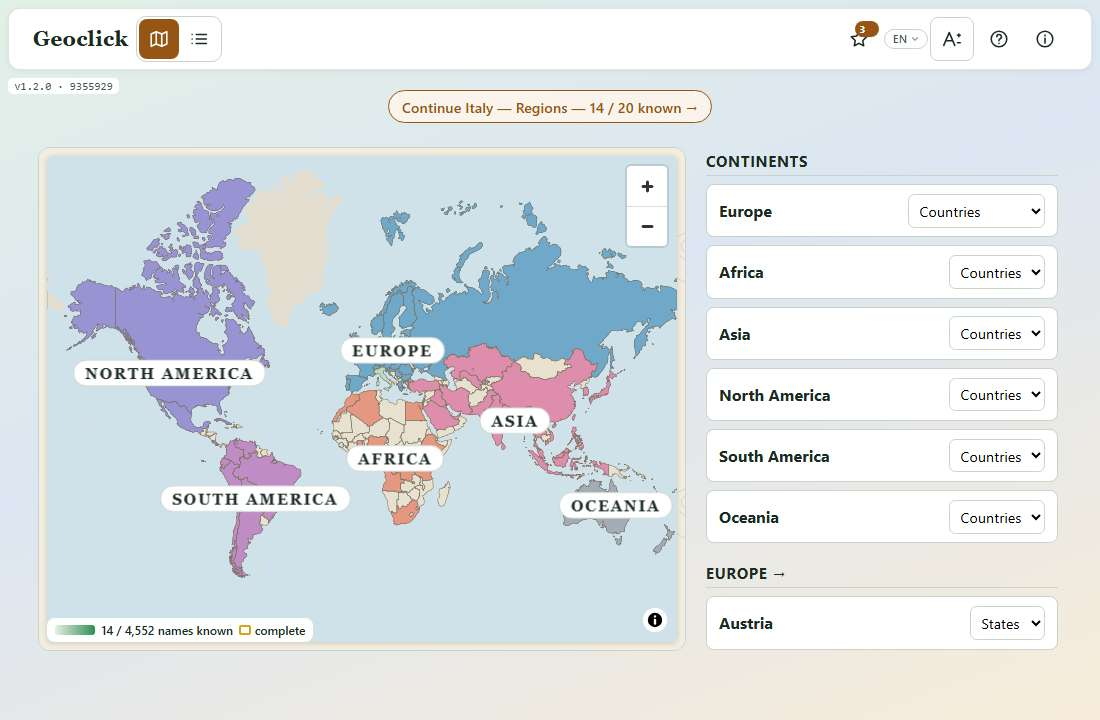
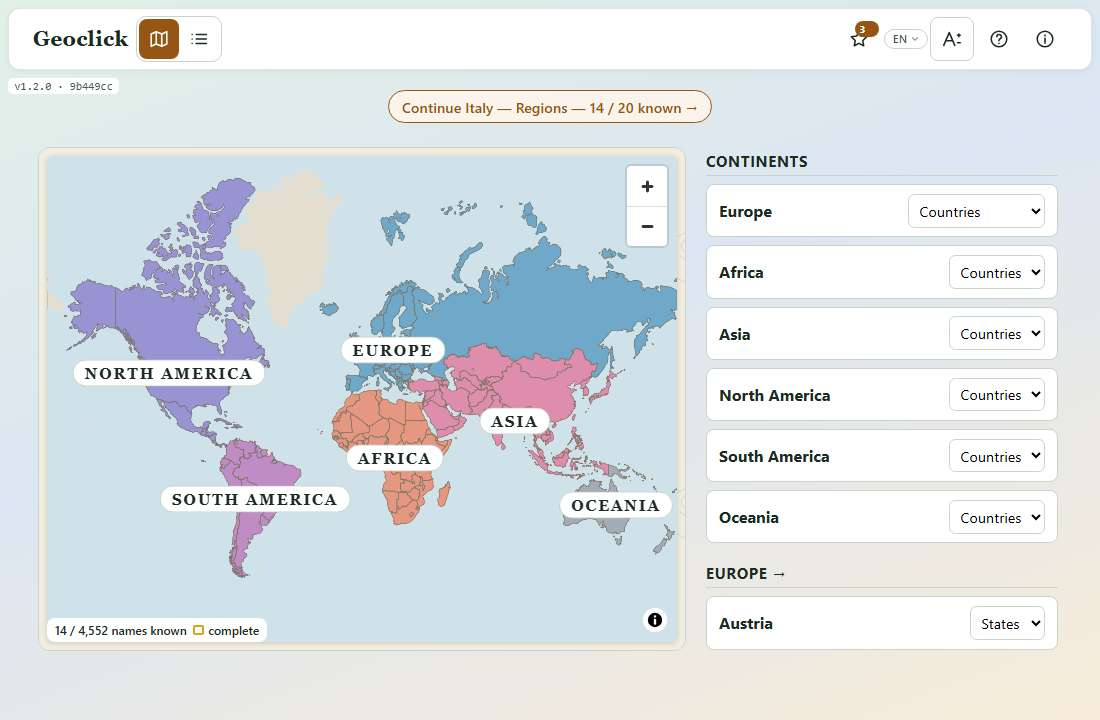
fix: enable desktop page zoom and preserve country colors
Keep learning progress in counts and completion outlines, independent
of continent fills. Enable native Windows zoom shortcuts and update
the localized manuals and world-map screenshots.

diff --git a/app/src/lib/WorldPicker.svelte.test.ts b/app/src/lib/WorldPicker.svelte.test.ts
@@ -7,7 +7,7 @@
 // and the test fires it by hand, which is the one ordering the bug was in.
 import { afterEach, beforeEach, describe, expect, it, vi } from 'vitest';
 import { render } from 'vitest-browser-svelte';
-import { setLanguage } from './i18n.svelte';
+import { setLanguage, t } from './i18n.svelte';
 import WorldPicker from './WorldPicker.svelte';
 import { pickerGoUp, setPickerShown, setPickerView } from './mapPrefs.svelte';
 
@@ -17,7 +17,14 @@ const fake = vi.hoisted(() => {
 		mapClick: undefined as ((event: unknown) => void) | undefined,
 		countryFeatures: [] as { properties: Record<string, string> }[],
 		mapOptions: undefined as
-			{ doubleClickZoom?: boolean; locale?: Record<string, string> } | undefined,
+			| {
+					doubleClickZoom?: boolean;
+					locale?: Record<string, string>;
+					style?: { layers: { id: string; paint?: Record<string, unknown> }[] };
+			  }
+			| undefined,
+		featureStates: {} as Record<string, Record<string, unknown>>,
+		paintProperties: {} as Record<string, unknown>,
 		countryLabels: {} as Record<string, HTMLElement>,
 		countryLabelPosition: undefined as [number, number] | undefined
 	};
@@ -31,6 +38,13 @@ const fake = vi.hoisted(() => {
 			}
 		],
 		countries: [
+			{
+				id: 'united-states',
+				name: 'United States',
+				continent: 'north-america',
+				centroid: [-100, 39] as [number, number],
+				bbox: [-125, 25, -66, 49] as [number, number, number, number]
+			},
 			{
 				id: 'italy',
 				name: 'Italy',
@@ -81,9 +95,13 @@ const fake = vi.hoisted(() => {
 				if (element) container.append(element);
 				return map;
 			},
-			setFeatureState: () => {},
+			setFeatureState: (target: { id: string }, change: Record<string, unknown>) => {
+				state.featureStates[target.id] = { ...state.featureStates[target.id], ...change };
+			},
 			queryRenderedFeatures: () => state.countryFeatures,
-			setPaintProperty: () => {},
+			setPaintProperty: (layer: string, property: string, value: unknown) => {
+				state.paintProperties[`${layer}:${property}`] = value;
+			},
 			fitBounds: () => map,
 			getCanvas: () => ({ style: {} }),
 			resize: () => map,
@@ -140,6 +158,7 @@ vi.mock('maplibre-gl', () => ({
 			container: HTMLElement;
 			doubleClickZoom?: boolean;
 			locale?: Record<string, string>;
+			style?: { layers: { id: string; paint?: Record<string, unknown> }[] };
 		}) {
 			fake.state.mapOptions = options;
 			Object.assign(this, fake.createMap(options.container));
@@ -166,18 +185,75 @@ vi.mock('./labelCollision', () => ({
 vi.mock('./worldPicker', () => ({
 	WORLD_VIEW: [-180, -60, 180, 75] as [number, number, number, number],
 	fetchPicker: async () => ({ picker: fake.picker, tilesUrl: 'test' }),
-	hasMaps: (id: string) => id === 'italy' || id === 'russia' || id === 'france',
+	hasMaps: (id: string) =>
+		id === 'italy' || id === 'russia' || id === 'france' || id === 'united-states',
 	validView: (p: typeof fake.picker, v: string) =>
 		v === 'world' || p.continents.some((c) => c.id === v) ? v : 'world'
 }));
 
 describe('WorldPicker (FT-83, FT-86, #87)', () => {
+	it('keeps USA/continent fills constant while progress counts and completion change (#296)', async () => {
+		const groups = [
+			{
+				country: 'USA',
+				pickerId: 'united-states',
+				maps: [
+					{ id: 'usa-states', label: 'States' },
+					{ id: 'usa-cities', label: 'Cities' }
+				]
+			}
+		];
+		const targetCount = (id: string) => (id === 'usa-states' ? 48 : 50);
+		const screen = await render(WorldPicker, { groups, masteries: {}, targetCount });
+		await expect.poll(() => fake.state.load !== undefined).toBe(true);
+		fake.state.load!();
+		const initial = fake.state.mapOptions!.style!.layers.find(
+			(layer) => layer.id === 'countries-fill'
+		)!.paint!['fill-color'];
+		// This is the user contract: feature-state must never drive a fill.
+		// It also includes unavailable countries: continent alone chooses color.
+		expect(JSON.stringify(initial)).not.toContain('feature-state');
+		expect(initial).toEqual(
+			expect.arrayContaining(['north-america', '#8b86d4', 'europe', '#5b9fc8'])
+		);
+		const cases = [
+			{ known: 0, complete: false },
+			{ known: 24, complete: false },
+			{ known: 48, complete: true },
+			{ known: 0, complete: false }
+		];
+		for (const step of cases) {
+			const masteries = {
+				'usa-states': { known: step.known, total: 48, level: 0 as const },
+				...(step.complete ? { 'usa-cities': { known: 50, total: 50, level: 3 as const } } : {})
+			};
+			await screen.rerender({ groups, masteries, targetCount });
+			await expect
+				.poll(() => fake.state.featureStates['united-states']?.complete)
+				.toBe(step.complete);
+			const current = fake.state.paintProperties['countries-fill:fill-color'] ?? initial;
+			expect(current).toEqual(initial);
+			const expected = t('picker.namesKnown', {
+				known: String(step.complete ? 98 : step.known),
+				total: '98'
+			});
+			await expect
+				.poll(() => screen.container.querySelector('[data-testid="world-progress"]')?.textContent)
+				.toContain(expected);
+		}
+		const complete = fake.state.mapOptions!.style!.layers.find(
+			(layer) => layer.id === 'countries-complete'
+		)!;
+		expect(JSON.stringify(complete.paint)).toContain('complete');
+	});
 	beforeEach(() => {
 		setLanguage('en');
 		fake.state.load = undefined;
 		fake.state.mapClick = undefined;
 		fake.state.countryFeatures = [];
 		fake.state.mapOptions = undefined;
+		fake.state.featureStates = {};
+		fake.state.paintProperties = {};
 		fake.state.countryLabels = {};
 		fake.state.countryLabelPosition = undefined;
 		localStorage.removeItem('geoclick:map-type-selections:v1');

diff --git a/app/src/lib/WorldPicker.svelte b/app/src/lib/WorldPicker.svelte
@@ -75,7 +75,7 @@
 
 	const view = $derived(picker ? validView(picker, pickerView()) : 'world');
 
-	// One colour per continent for the countries with maps; the rest pale.
+	// Country fills always keep their continent color; progress is separate (#296).
 	const CONTINENT_COLOURS: Record<string, string> = {
 		europe: '#5b9fc8',
 		africa: '#e58a73',
@@ -84,22 +84,18 @@
 		'south-america': '#b87dc4',
 		oceania: '#97a3b2'
 	};
-	const NO_MAPS = '#e9e2d0';
+	const UNKNOWN_CONTINENT = '#e9e2d0';
 	const CONTINENT_COLOUR = [
 		'match',
 		['get', 'continent'],
 		...Object.entries(CONTINENT_COLOURS).flat(),
-		NO_MAPS
+		UNKNOWN_CONTINENT
 	] as unknown as maplibregl.ExpressionSpecification;
 
 	const continentName = (id: string) => t(`continent.${id}` as TranslationKey);
 
-	// The world map shows what is known (#262): a country with a map played is
-	// shaded from pale to full green by the share of its names known, and a
-	// completed one gets a gold outline. Countries never played keep their
-	// continent's colour, so the map looks as it always has until a first round.
-	const PROGRESS_PALE = '#e6efe0';
-	const PROGRESS_FULL = '#2f8f55';
+	// Counts and gold outlines show learning progress; no learning state is
+	// allowed to replace a country's continent fill (owner, #296).
 	const progress = $derived(
 		worldProgress(
 			groups.map((g) => ({ id: pickerIdOf(g), mapIds: g.maps.map((m) => m.id) })),
@@ -116,8 +112,6 @@
 			map.setFeatureState(
 				{ source: 'picker', sourceLayer: 'countries', id: country.id },
 				{
-					played: !!p,
-					share: p ? p.known / p.total : 0,
 					complete: !!p && p.known === p.total
 				}
 			);
@@ -377,22 +371,7 @@
 								source: 'picker',
 								'source-layer': 'countries',
 								paint: {
-									'fill-color': [
-										'case',
-										['boolean', ['feature-state', 'played'], false],
-										[
-											'interpolate',
-											['linear'],
-											['number', ['feature-state', 'share'], 0],
-											0,
-											PROGRESS_PALE,
-											1,
-											PROGRESS_FULL
-										],
-										['boolean', ['feature-state', 'hasMaps'], false],
-										CONTINENT_COLOUR,
-										NO_MAPS
-									],
+									'fill-color': CONTINENT_COLOUR,
 									'fill-opacity': 0.85
 								}
 							},
@@ -425,13 +404,6 @@
 				stopCollision = enableLabelCollision(map, container);
 				map.on('load', () => {
 					if (!map || !picker) return;
-					for (const country of picker.countries) {
-						if (!hasMaps(country.id)) continue;
-						map.setFeatureState(
-							{ source: 'picker', sourceLayer: 'countries', id: country.id },
-							{ hasMaps: true }
-						);
-					}
 					paint(start);
 					drawLabels(start);
 					keepContinentsInside();
@@ -603,9 +575,8 @@
 			<div class="map" bind:this={container}></div>
 		</ChartMapShell>
 		{#if progress.byGroup.size > 0}
-			<!-- What the green means, and how much of the world is known (#262). -->
+			<!-- Progress stays in counts and completion outlines, separate from fills. -->
 			<div class="progress-legend" data-testid="world-progress">
-				<span class="ramp" aria-hidden="true"></span>
 				{t('picker.namesKnown', {
 					known: progress.known.toLocaleString(getLanguage()),
 					total: progress.total.toLocaleString(getLanguage())
@@ -671,12 +642,6 @@
 		font-family: system-ui, sans-serif;
 		font-size: 0.75rem;
 		font-weight: 600;
-	}
-	.ramp {
-		width: 2.5rem;
-		height: 0.6rem;
-		border-radius: 3px;
-		background: linear-gradient(to right, #e6efe0, #2f8f55);
 	}
 	.complete-key {
 		display: inline-flex;

diff --git a/app/src/lib/homeProgress.ts b/app/src/lib/homeProgress.ts
@@ -88,10 +88,9 @@ export function groupProgress(
 }
 
 /**
- * How much of each country is known, for colouring the start screen's world
- * map (#262), and the names known over the whole catalogue. Only a group with
- * a map played is listed: the rest keep their plain colour. Detailed maps do
- * not count, so a country can be completed from its main maps.
+ * Country completion and world totals (#262, #296). Country fill colors
+ * remain independent of learning progress. Only played groups are listed;
+ * detailed maps do not count toward completing a country's main maps.
  */
 export function worldProgress(
 	groups: readonly { id: string; mapIds: readonly string[] }[],

diff --git a/docs/USER_MANUAL.de.md b/docs/USER_MANUAL.de.md
@@ -33,6 +33,12 @@ Die gemeinsam mit dem englischen Handbuch verwendeten Bilder zeigen englische Be
 
 ## Darstellung und Textgröße
 
+In der Windows-App vergrößern und verkleinern **Strg +** / **Strg −** und
+**Strg + Mausrad** die ganze Oberfläche einschließlich Schaltflächen und
+Symbolen, wie im Browser. Die Textgröße unter Darstellung und der geografische
+Kartenzoom sind davon unabhängig.
+
+
 Öffne **Darstellung** (das A− / A+-Symbol) in der Start- oder Kartenleiste,
 auch während eines Quiz. Öffne auf der Karte zuerst **Einstellungen**.
 Dieses Feld ist anfangs geschlossen und lässt sich wieder zuklappen. Mit **A−** und **A+** wählst du 50% bis 300%;
@@ -74,7 +80,7 @@ Du kannst zwischen Weltkarte und Liste wählen. Auf der Weltkarte öffnest du zu
 
 Drücke auf den gewünschten Kartentyp, um ihn zu öffnen. Die Prozentzahl oder Anzahl bei einer Karte zeigt, wie viele ihrer Orte du kennst. Sie ist keine Bewertung der letzten Runde. Die Darstellung und deine Einstellungen werden gespeichert. Das Angebot für das Tutorial erscheint einmal; der Tutorial-Knopf bleibt auch danach erreichbar.
 
-Auf der Weltkarte ist ein Land, das du gespielt hast, von blassem bis kräftigem Grün gefärbt, je nachdem, wie viel du davon weißt. Es zählen seine Regionen- und Städtekarten, keine Detailkarten. Ein Land, das du ganz kennst, bekommt einen **goldenen Rand**; nie gespielte Länder behalten die Farbe ihres Kontinents. Eine kleine Legende zeigt die Farbstufen und deine Summe über alle Karten, etwa „1 240 / 9 800 Namen gewusst“.
+Auf der Weltkarte behält jedes Land die Farbe seines Kontinents, unabhängig vom Lernstand. Üben lässt die Farbe nicht verblassen. Ein vollständig gewusstes Land bekommt einen **goldenen Rand**; Regionen- und Städtekarten zählen, Detailkarten nicht. Zähler bei den Karten und die Gesamtzahl der gewussten Namen zeigen den Fortschritt getrennt von den Flächenfarben.
 
 Eine Zeile über Karte oder Liste schlägt vor, was du als Nächstes spielen kannst, zum Beispiel „Weiter mit Italy — Regionen — 14 / 20 gewusst“, „Italy — Regionen nochmal spielen — letztes Mal 3 eine Stufe verloren“ oder „Als Nächstes: Italy — Städte — Italy — Regionen kannst du ganz“. Ein Druck darauf öffnet das Quiz dieser Karte. Gibt es nichts vorzuschlagen, oder läuft das Tutorial, fehlt die Zeile.
 

diff --git a/docs/USER_MANUAL.it.md b/docs/USER_MANUAL.it.md
@@ -33,6 +33,12 @@ Le immagini condivise con il manuale inglese mostrano l’interfaccia in inglese
 
 ## Aspetto e dimensione del testo
 
+Nell'app Windows, **Ctrl +** / **Ctrl −** e **Ctrl + rotellina del mouse**
+ingrandiscono o riducono l'intera interfaccia, inclusi pulsanti e icone, come
+nel browser. La dimensione del testo in Aspetto e lo zoom geografico della
+mappa restano indipendenti.
+
+
 Apri **Aspetto** (l'icona A− / A+) nella barra iniziale o della mappa,
 anche durante un quiz. Sulla mappa apri prima **Impostazioni**.
 Il pannello è inizialmente chiuso e può essere richiuso. Usa **A−** e **A+** per scegliere dal 50% al 300%;
@@ -74,7 +80,7 @@ Puoi scegliere una vista geografica oppure un elenco. Nella vista geografica sce
 
 Premi il tipo di mappa che vuoi aprire. La percentuale o il conteggio accanto a una mappa indica quanti luoghi conosci; non rappresenta un voto dell’ultima partita. La scelta fra mappa ed elenco e le preferenze vengono ricordate. L’offerta del tutorial appare una volta, ma il comando Tutorial rimane disponibile.
 
-Sulla mappa del mondo, un paese su cui hai giocato è colorato da un verde pallido a un verde pieno, secondo quanto lo conosci. Contano le sue mappe delle regioni e delle città, non quelle dettagliate. Un paese che conosci del tutto riceve un **bordo dorato**; i paesi mai giocati mantengono il colore del loro continente. Una piccola legenda mostra la scala dei colori e il totale su tutte le mappe, per esempio «Sai 1 240 / 9 800 nomi».
+Sulla mappa del mondo ogni paese mantiene il colore del proprio continente, qualunque sia il progresso. Esercitarsi non fa sbiadire il colore. Un paese conosciuto del tutto riceve un **bordo dorato**; contano regioni e città, non le mappe dettagliate. I contatori accanto alle mappe e il totale dei nomi conosciuti mostrano il progresso separatamente dai colori delle aree.
 
 Una riga sopra la mappa o l’elenco suggerisce che cosa giocare: per esempio «Continua Italy — Regioni — sai 14 / 20», «Rigioca Italy — Regioni — l’ultima volta 3 sono scesi di un gradino» oppure «Prossima: Italy — Città — conosci tutta Italy — Regioni». Premendola si apre il quiz di quella mappa. La riga manca quando non c’è nulla da suggerire e durante il tutorial.
 

diff --git a/DECISIONS.md b/DECISIONS.md
@@ -2695,10 +2695,12 @@ question was answered "as recommended" in the issues.
   licence or credit, which the issue's CC0-files plan would have needed.
   Sounds are off by default; Android haptics are on and follow the system's
   reduce-motion setting.
-- **The start screen speaks completion (#262, #263):** countries shaded by
-  what is known (detailed maps excluded, so a country can be completed), and
-  one suggestion line rather than a new home section, which would have
-  reopened the home-order decision (FEATURE_PLAN.md decision 15).
+- **The start screen speaks completion (#262, #263; amended 2026-10-31, #296):**
+  the owner chose permanent continent fill colors, with learning progress
+  shown separately through counts and gold completion outlines. Practice,
+  including zero-known records, never fades or replaces a country's color.
+  Detailed maps are excluded from completion. The single suggestion line
+  remains, rather than reopening the home-order decision.
 - **Out of scope, on purpose:** leaderboards, accounts, coins or XP, daily
   streaks, typed answers, and saving an unfinished round across restarts.
 
@@ -2730,3 +2732,11 @@ is reduced. The owner also confirmed About and the manual must wrap at 300%.
 Stored appearance is applied by a small synchronous head bootstrap before
 the first paint, with the component managing later changes; its literals are
 checked against the canonical preference definitions.
+
+### Desktop page zoom matches the browser (2026-10-31, #295)
+
+The owner expects Ctrl +/− and Ctrl + mouse wheel to scale the desktop's
+whole interface, including widgets, as in the web browser. Enable Tauri's
+native `zoomHotkeysEnabled` window setting; on Windows this controls
+WebView2's IsZoomControlEnabled for both keyboard and wheel. This is distinct
+from the persistent Appearance text preference and geographic map zoom.

diff --git a/ROADMAP.md b/ROADMAP.md
@@ -1,5 +1,7 @@
 # Geoclick — Roadmap
 
+- **Follow-up in progress (2026-10-31):** desktop browser-style Ctrl zoom (#295); permanent continent colors with progress in counts/gold outlines (#296, owner-approved). Changes are in an isolated worktree, not part of the published v1.2.0 tag.
+
 - **Released 2026-10-31: v1.2.0** (tag `1904731`, [milestone #287](https://github.com/diegoami/Geoclick2027/issues/287): AGREE in round two; [release](https://github.com/diegoami/Geoclick2027/releases/tag/v1.2.0)). Overall 50–300% text size, four color schemes, pre-paint preference restoration, collapsed map Settings, visible quiz modes, shorter vertical button padding with horizontal padding preserved, plain Known region names, first-visit and large-page wrapping, corrected illustrated manuals, and resumed mix-ups (#277). Windows setup and final HTML5 ZIP tried; signed APK built with the device test deferred by the owner. All uploaded artifact hashes verified.
 
 - **Released 2026-10-29: v1.1.0** (tag `0f19f24`, [Milestone #275](https://github.com/diegoami/Geoclick2027/issues/275): AGREE in one round; [release](https://github.com/diegoami/Geoclick2027/releases/tag/v1.1.0)). Plan [#270](https://github.com/diegoami/Geoclick2027/issues/270): Known fades one step per mistake and can be reset (#256), score panel (#259), tap-to-place (#260), finger-lifted drag (#261), world map by what is known (#262), next-map suggestion (#263), Name places (#264), practice round (#265), mix-ups (#266), best times (#267), haptics and sounds (#268), small gaps (#269); Bolivia and Cuba (#271). Windows setup and HTML5 ZIP tried; the APK tried by the owner. #276 fixed after the tag (#277), shipped in v1.2.0.

diff --git a/docs/USER_MANUAL.md b/docs/USER_MANUAL.md
@@ -68,6 +68,12 @@ real progress.
 
 ## Appearance and text size
 
+In the Windows desktop app, **Ctrl +** / **Ctrl −** and **Ctrl + mouse wheel**
+zoom the whole interface, including buttons and icons, as in a browser.
+Appearance's text-size controls are a separate preference; geographic map zoom
+is separate from both.
+
+
 Choose **Appearance** (the A− / A+ icon) in the start screen toolbar or a
 map's **Settings** panel, including during a quiz. Settings starts collapsed;
 click **Settings** again to hide it. Use **A−** and **A+** to choose a text
@@ -200,13 +206,12 @@ parts. The finer ones are listed below a line, after the standard ones (see
 
 Once you have played, the world map shows how far you have got:
 
-- A country you have played is painted from pale to full green, by how much of
-  it you know. Its regions and towns maps count; detailed maps don't.
-- A country you know completely gets a **gold outline**.
-- A country you have never played keeps its continent's colour.
-
-A small legend on the map shows the green ramp and your total across all
-maps, for example "1 240 / 9 800 names known".
+- Every country keeps its continent's colour, whether it is unplayed, partly
+  known or fully known. Practice never fades or replaces its fill colour.
+- A country you know completely gets a **gold outline**. Its regions and towns
+  maps count; detailed maps don't.
+- Progress is shown by the counts beside maps/countries and the total legend,
+  for example "1 240 / 9 800 names known", separately from the fill colours.
 
 ### What to play next
 

diff --git a/ARCHITECTURE.md b/ARCHITECTURE.md
@@ -13,7 +13,9 @@ ways.
 
 - **Browser** — runs directly.
 - **Desktop** — wrapped in **Tauri** (Rust shell around the system webview —
-  small binaries, fast startup, real local SQLite for free).
+  small binaries, fast startup, real local SQLite for free). The main window
+  enables native browser-style page zoom shortcuts (`zoomHotkeysEnabled`),
+  independently of text size and geographic map zoom.
 - **Mobile** — wrapped in **Capacitor** (same web core in a native webview,
   plugin access to device SQLite/filesystem).
 
@@ -421,8 +423,9 @@ finger's drag aims, tap or drag), `difficulty.ts` (the hand), `nameIt.ts`
 (Name places' choices), `confusions.ts` (mix-ups), `roundReport.ts` (what a
 round changed, best times) and `feedback.ts` (sound and haptics).
 `ScorePanel.svelte` shows the end of a round. The start screen's suggestion
-comes from `suggestion.ts`, and `homeProgress.ts`'s `worldProgress` colours
-the world map.
+comes from `suggestion.ts`, and `homeProgress.ts`'s `worldProgress` supplies
+world totals and gold completion outlines. `WorldPicker.svelte` keeps every
+country's continent fill independent of progress (#296).
 
 **The tutorial** (FT-11, script in `docs/TUTORIAL.md`) runs over these
 same screens rather than copies of them. A Tutorial button sits on the
